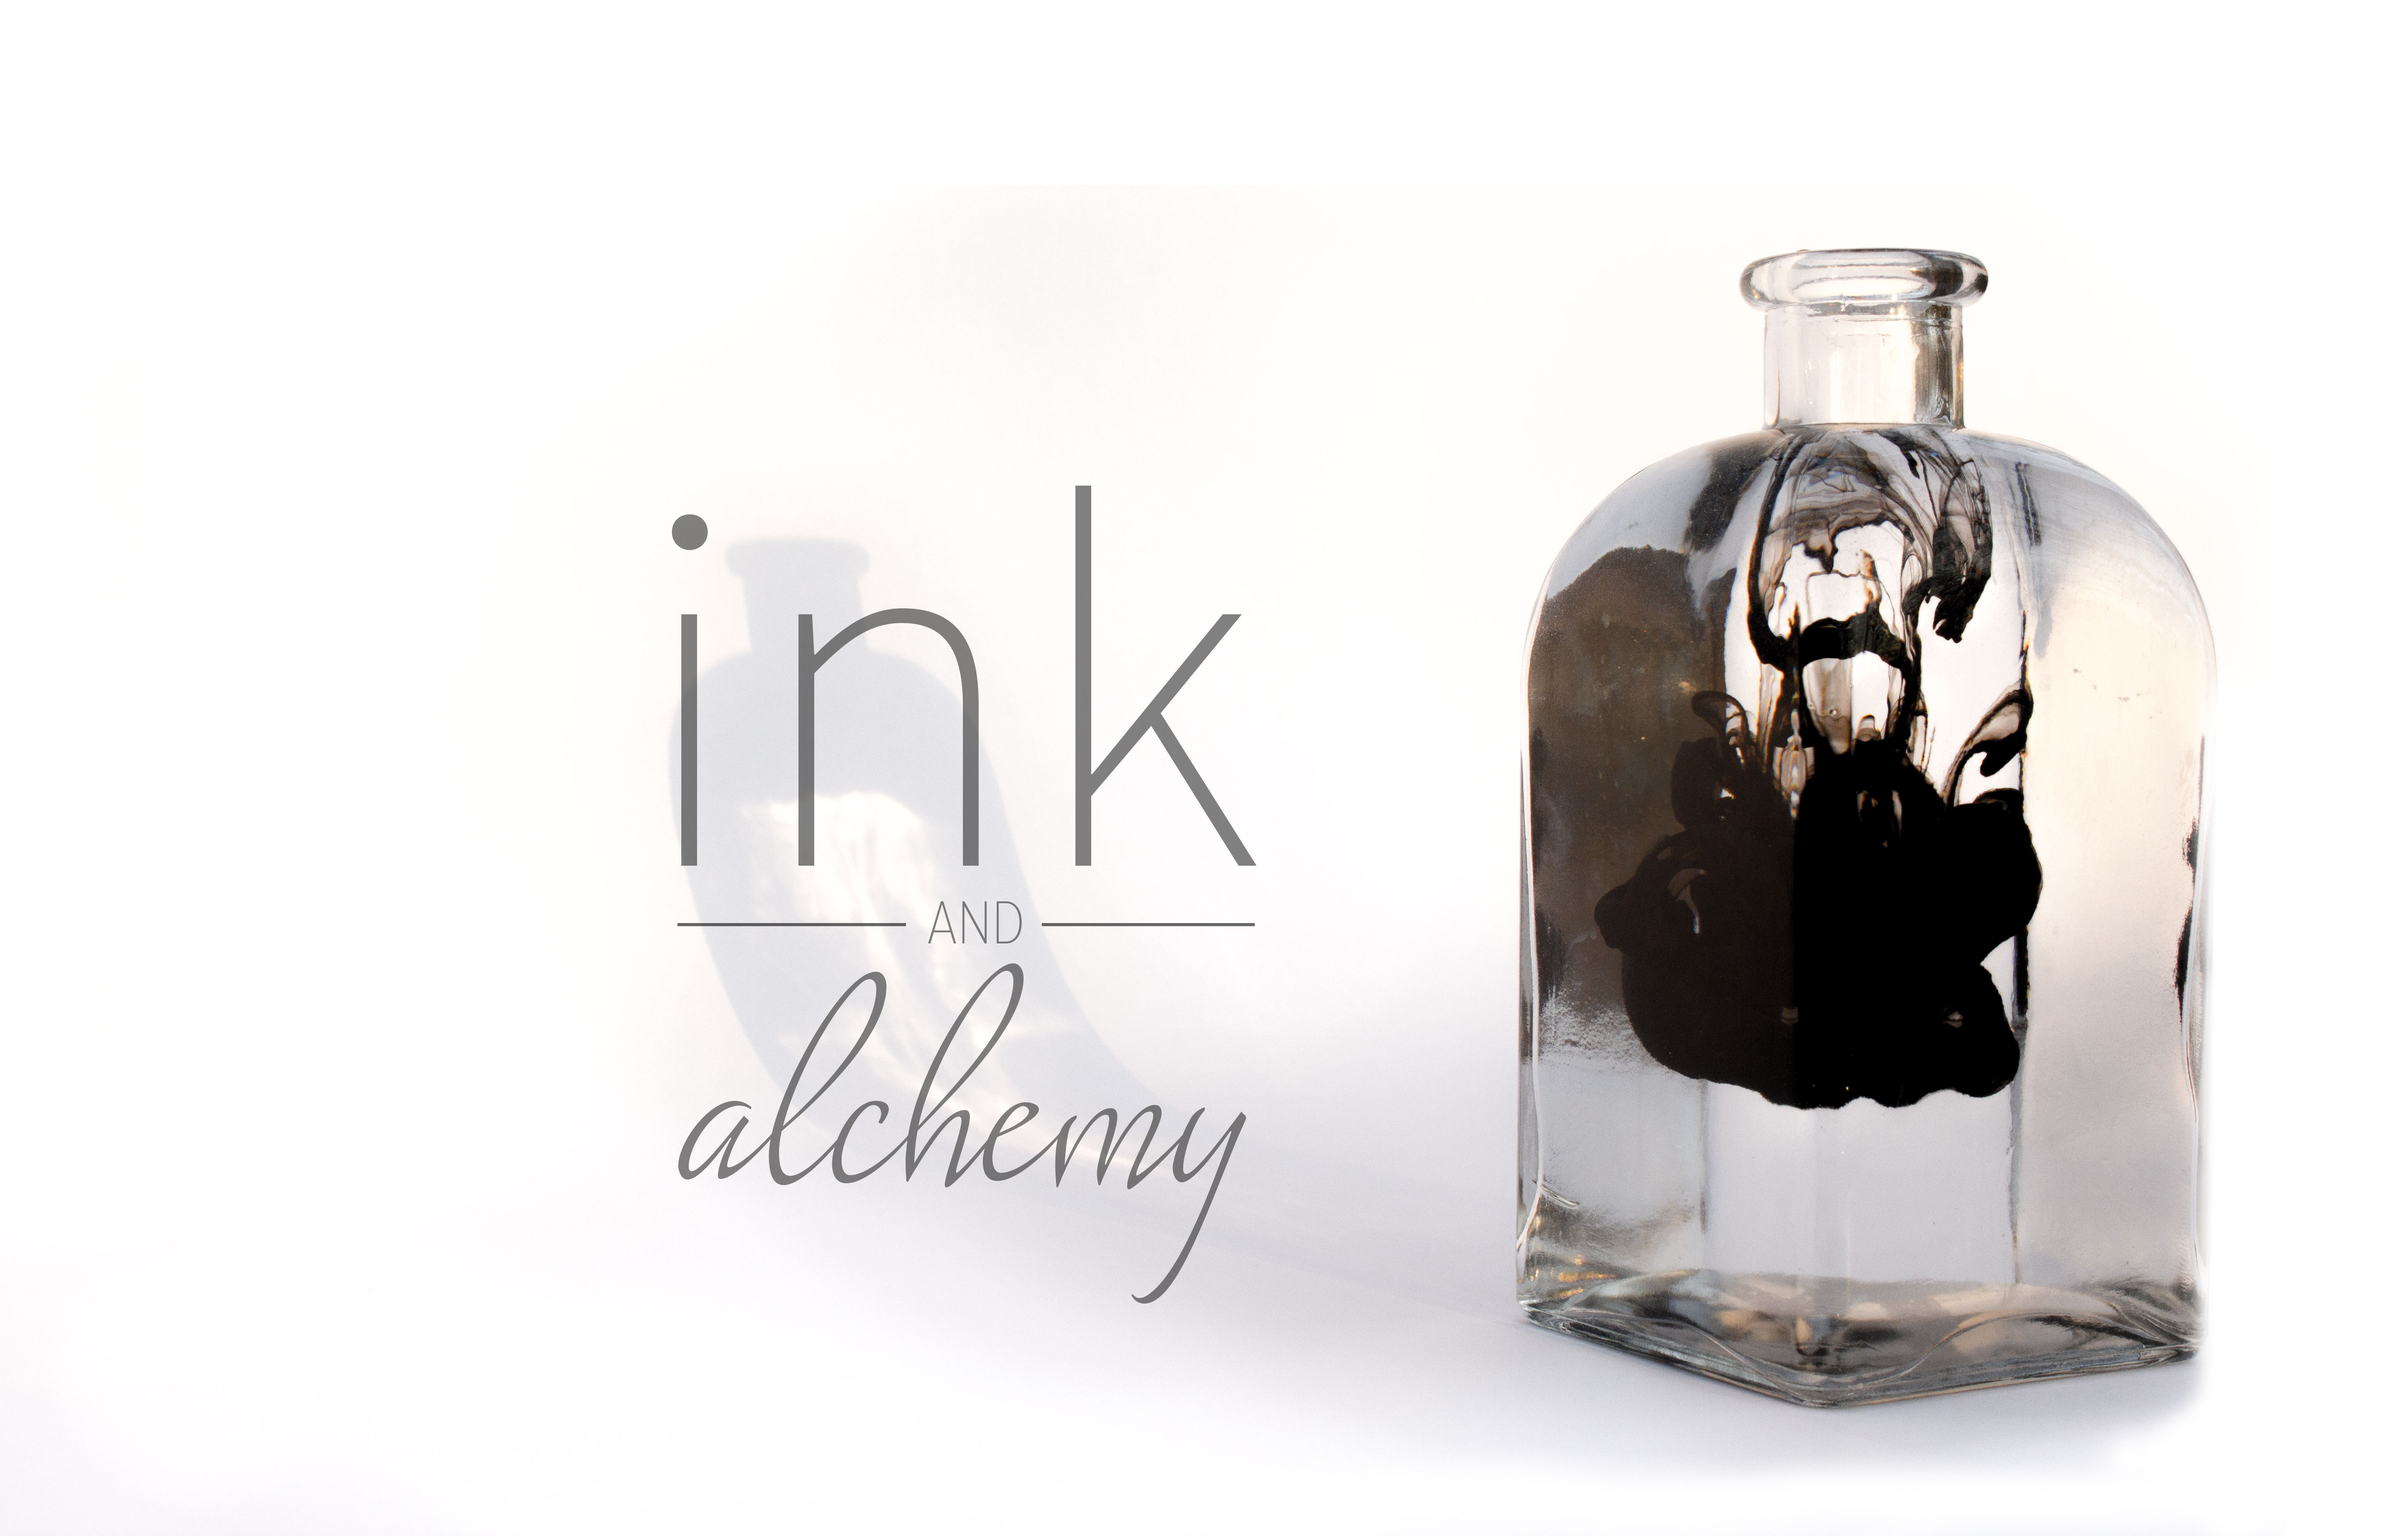
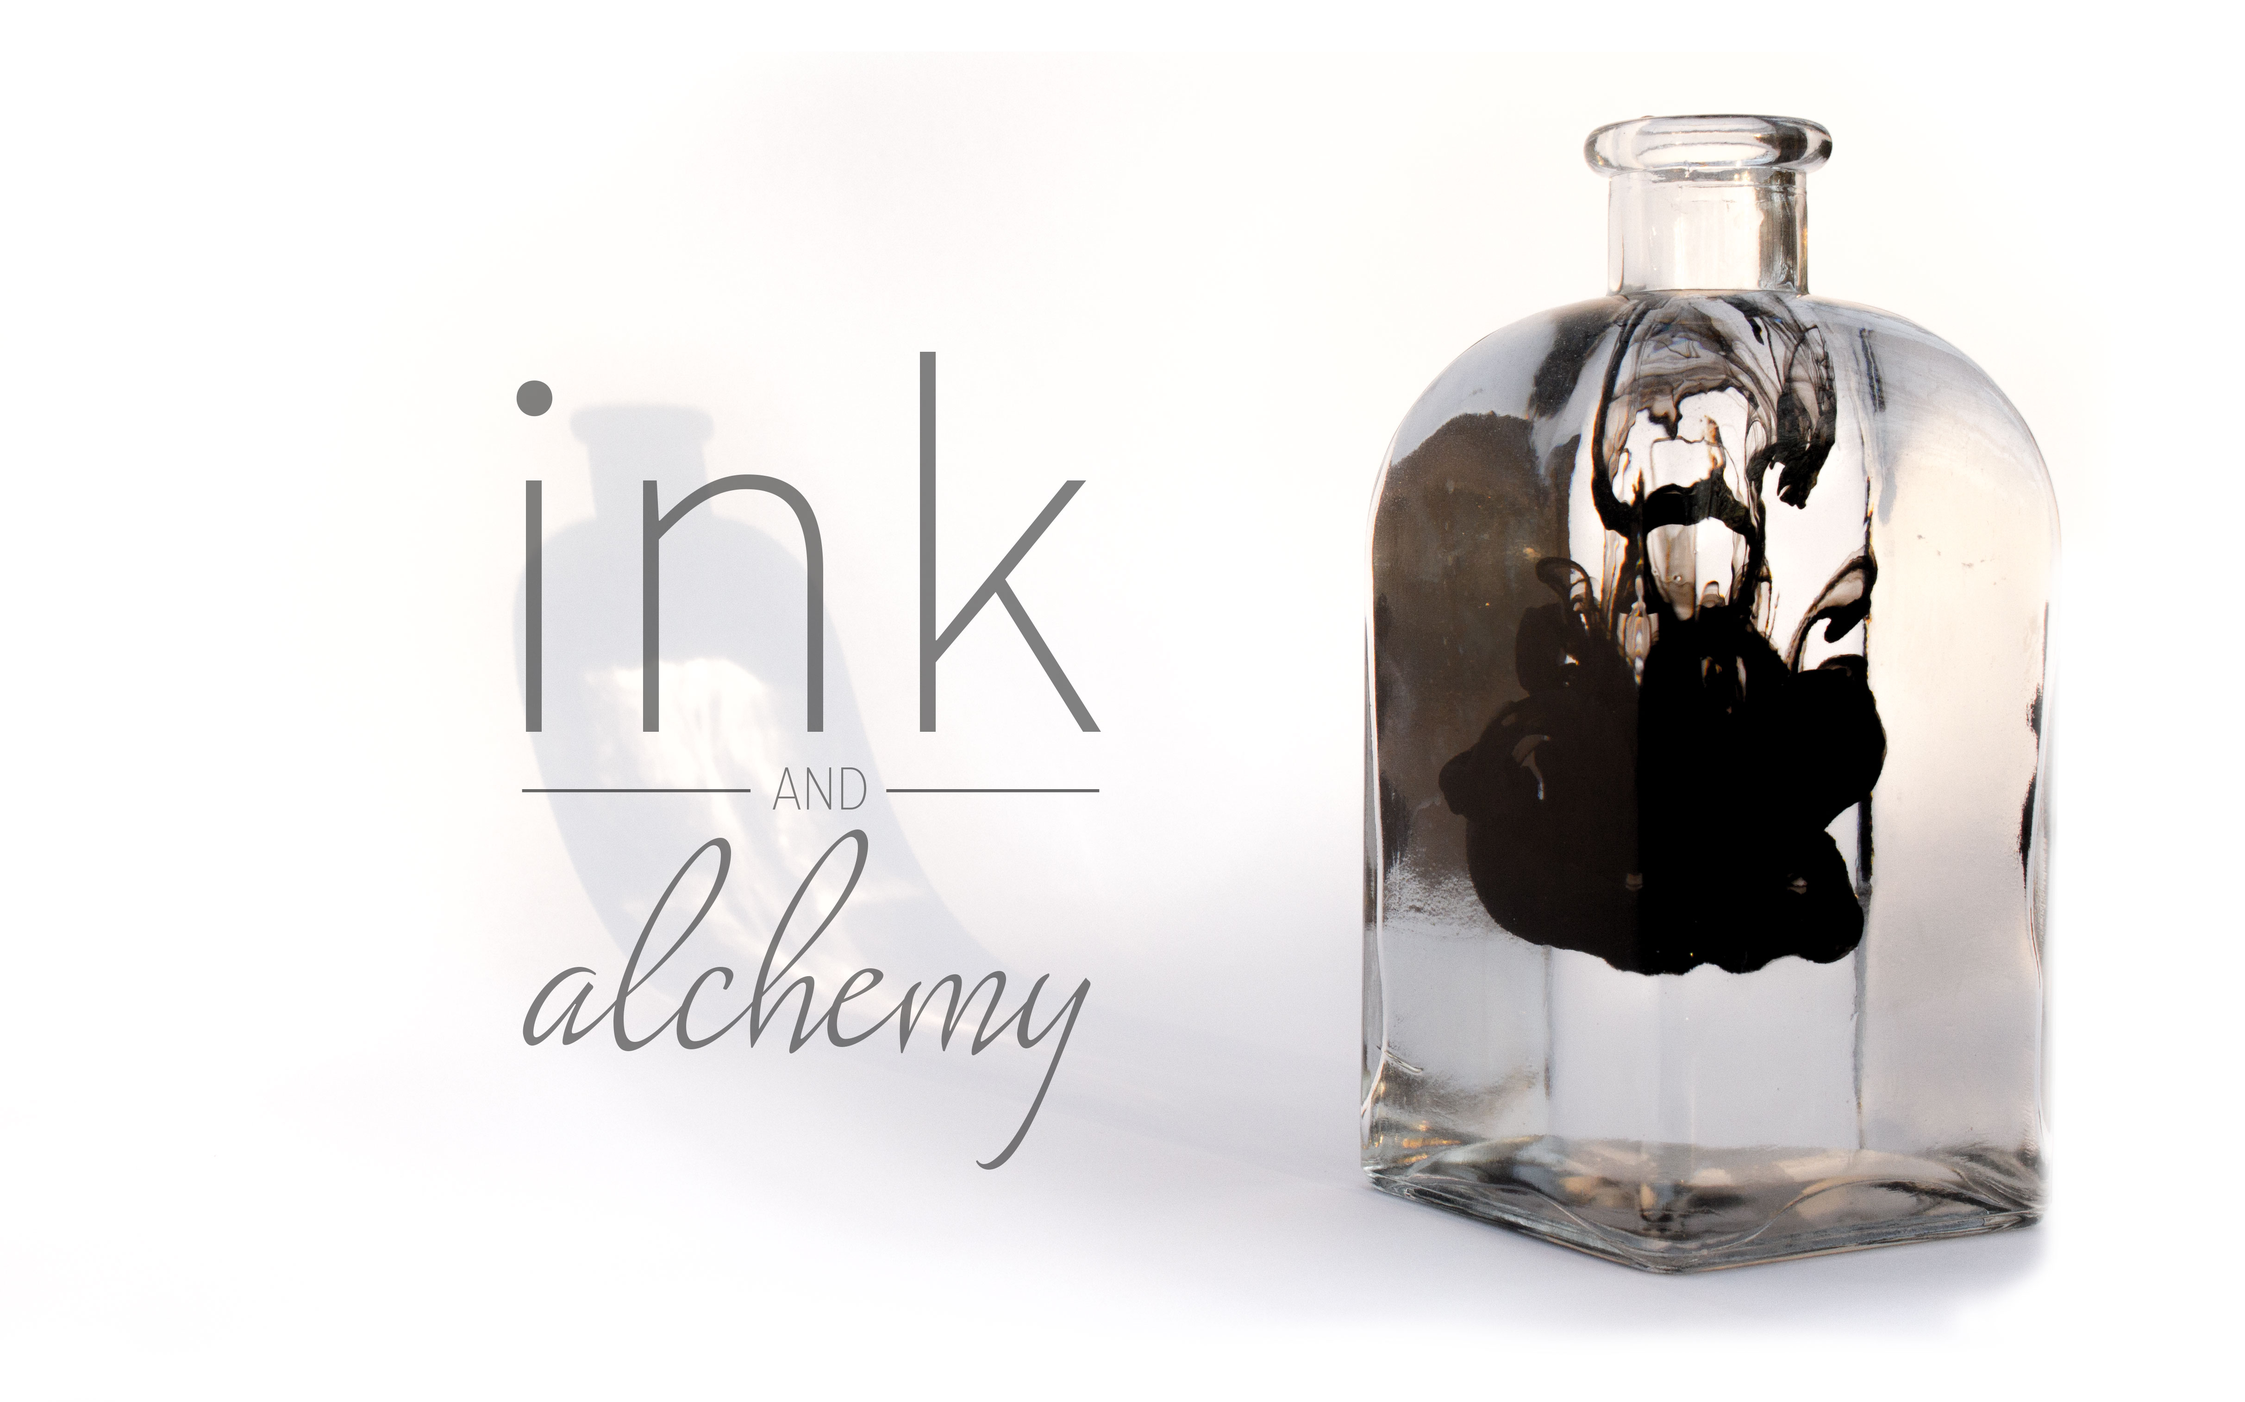
content and script updates
added javascript and content

Changed region(s): [[0.5917, 0.0621, 0.9342, 0.931], [0.218, 0.2483, 0.5294, 0.8379], [0.4982, 0.4034, 0.5294, 0.4345]]

diff --git a/index.html b/index.html
@@ -1,8 +1,82 @@
 <!DOCTYPE HTML>
 <html>
+    <head>
+        <meta charset="utf-8">
+        <meta http-equiv="X-UA-Compatible" content="IE=edge,chrome=1">
+        <title>Ink and Alchemy</title>
+        <meta name="description" content="Art and Design">
+        <link href='http://fonts.googleapis.com/css?family=Alegreya+Sans:100,300|Monsieur+La+Doulaise' rel='stylesheet' type='text/css'>
+    </head>
+    <style>
+        body{
+            margin-top:0;
+        }
+        a, a:visited{
+            text-decoration: none;
+            color:inherit;
+        }
+        a:hover{
+            color: #777;
+        }
+        #header {
+            width:100%;
+            background-color:#f6f6fc;
+            font-family: 'Alegreya Sans', sans-serif;
+            font-size:1.5em;
+            box-shadow:  10px 10px 20px rgba(0,0,0,0.2);
+        }
+        #banner{
+            width:100%;
+        }
+        .h_option{
+            float:right;
+            text-align:right;
+            padding-right:2%;
+        }
+        .cb{
+            clear:both;
+        }
+        #quote{
+            text-align: center;
+            color:#555;
+            font-family: 'Monsieur La Doulaise', cursive;
+            font-size:2.5em;
+        }
+    </style>
 <body>
+    <a href="http://exhibit.inkandalchemy.com"><img id="banner" alt="Ink and Alchemy" src="images/banner_ink_and_bottle.jpg"></a>
+    <div id="header">
+        
+        <div class="h_option"><p>About</p></div>
+        <div class="h_option"><p><a alt="Exhibit" href="http://exhibit.inkandalchemy.com">Exhibit</a></p></div>
+        <div class="h_option"><p><a alt="Photography at 500px" href="http://500px.com/rynfx">Photography</a></p></div>
+        <div class="cb"></div>
+    </div>
+    
+    <div id="quote">
+        <p>“And so it goes...” 
+― Kurt Vonnegut: Slaughterhouse-Five</p>
+    </div>
+    
+<script src="http://code.jquery.com/jquery-latest.min.js"
+        type="text/javascript"></script>
+<script type="text/javascript">
+    $(document).ready(function() {
+    $.ajax({
+        type: "GET",
+        url: "quotes.txt",
+        dataType: "text",
+        success: function(data) {
+                                var parseRows = data.split("\n")
+                                var countRows = parseRows.length;
+                                var min = 0;
+                                var randRec = Math.floor(Math.random()*(countRows-min)+min);
+                                var quote = parseRows[randRec].split('","');
+                                $("#quote").html("<p>"+quote[0] + " - " +quote[1]+"</p>")   ;
+                                }
+     });
+});
 
-<img style="width:100%;" alt="Ink and Alchemy" src="images/banner_ink_and_bottle.jpg"> 
-
+</script>
 </body>
 </html>
